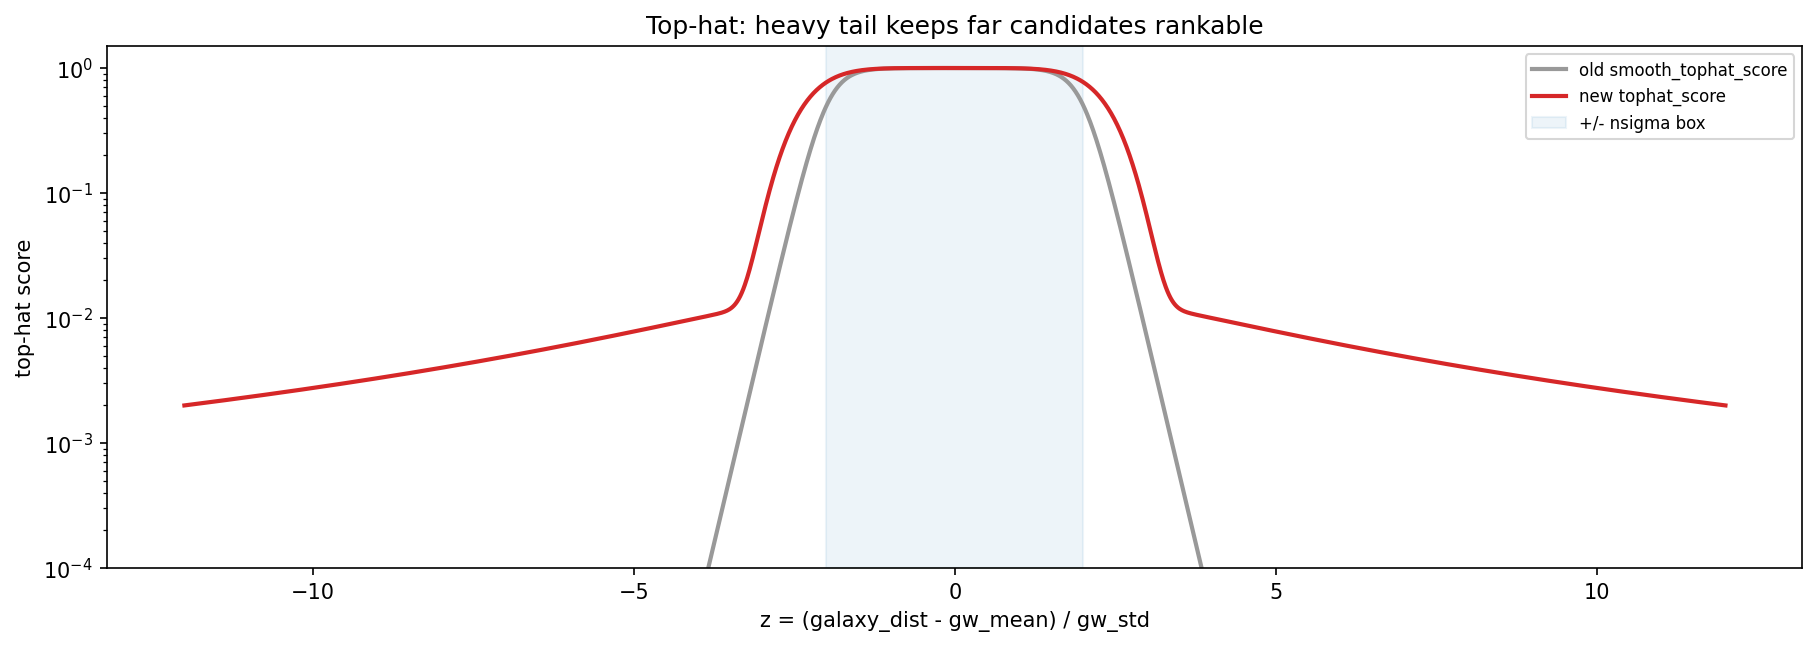
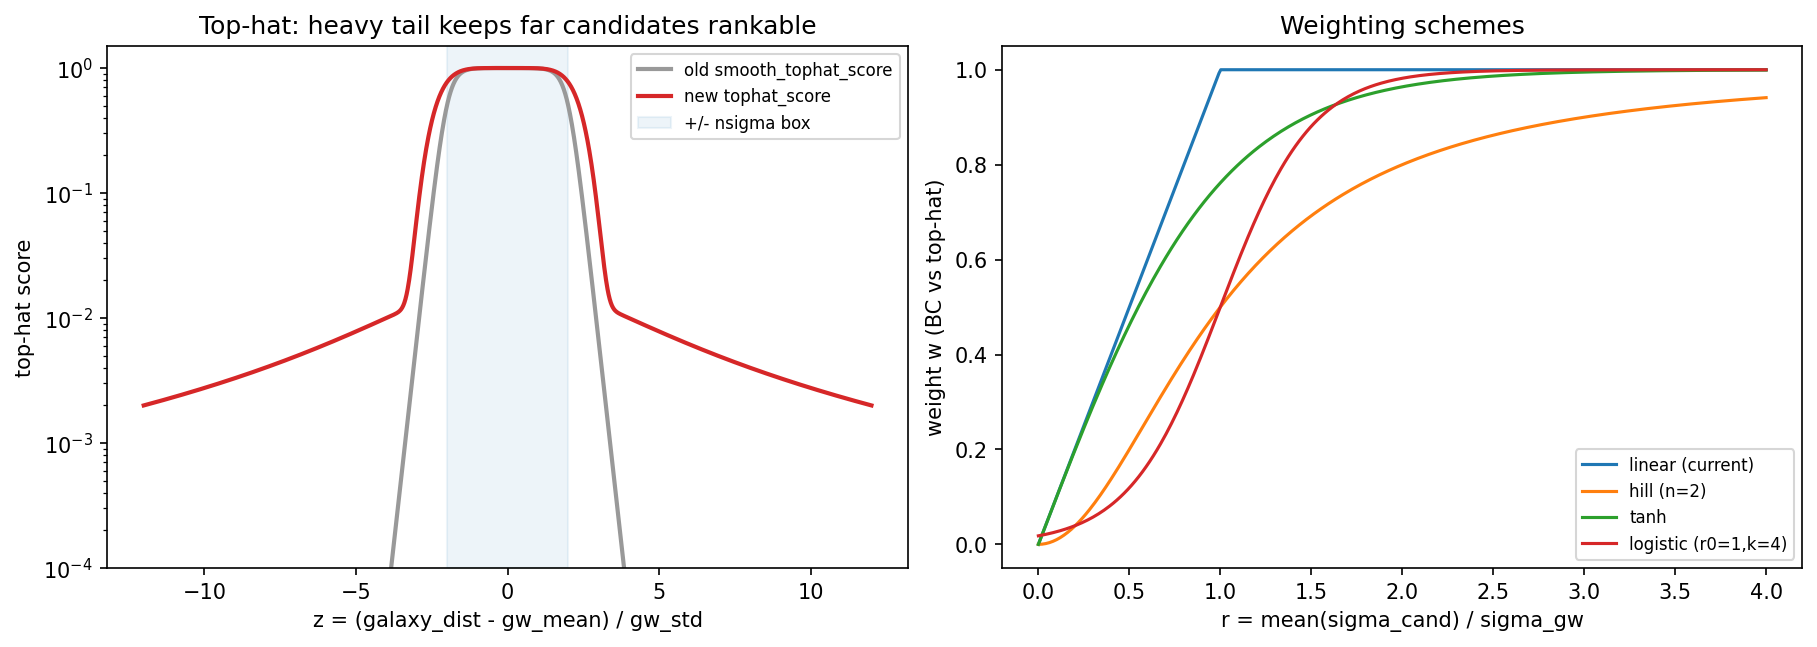
Poster Working

diff --git a/HANDOFF.md b/HANDOFF.md
@@ -1,0 +1,198 @@
+# Distance Scoring — Project Handoff
+
+> Context document for a fresh Claude session. Everything needed to pick up work on the
+> gravitational-wave (GW) host-galaxy **distance scoring** project without prior conversation.
+> Written 2026-07-17.
+
+---
+
+## 0. TL;DR
+
+We score how well a candidate host galaxy's **distance estimate** agrees with a GW event's
+**distance posterior**, to help vet optical counterpart candidates (kilonovae, sub-solar-mass
+events) for the TROVE / SAGUARO follow-up pipeline. The current best metric is
+**`hybrid_v3`** (a.k.a. "Hybrid BC/Tophat V3"): a heavy-tailed top-hat branch blended with an
+analytic Bhattacharyya-coefficient (BC) branch, weighted by a **logistic function of the
+host/GW width ratio** (`r0=1, k=4`), built on **robust median/MAD statistics**. It is
+validated on 23 synthetic PDF stress cases and 2112 real hosts from event **S251112cm**.
+
+The immediate deliverable in progress is a **research poster** — see `POSTER.md`.
+
+---
+
+## 1. Scientific motivation
+
+- GW events (BNS mergers, and sub-solar-mass / SSM candidates) are localized in 3D:
+  sky area × luminosity **distance**. The distance posterior is roughly Gaussian and
+  well-characterized.
+- Optical surveys yield hundreds–thousands of transient candidates per event. Each candidate's
+  **host galaxy distance** is one of the strongest discriminants — *if scored correctly*.
+- **Key tension (the thesis of the whole project):** host distances come in two very
+  different flavors that a single naive metric cannot serve:
+  - **spec-z** (spectroscopic redshift): near delta-functions, very sharp.
+  - **photo-z** (photometric redshift): broad, often asymmetric, sometimes nearly uninformative.
+- Right question by regime:
+  - Sharp host PDF → *"is the point estimate consistent with the GW posterior?"* (top-hat / consistency)
+  - Broad host PDF → *"how much do the two distributions overlap?"* (BC)
+- The distance score is **one term** in a larger candidate score (sky position, photometric
+  evolution, etc.) from Noah's distance-scoring work.
+
+## 2. Design requirements for a "good" distance score
+
+1. Bounded in [0, 1]; identical PDFs → 1; disjoint PDFs → 0.
+2. A spec-z galaxy at exactly the right distance must score **~1**, even though its PDF shape
+   looks nothing like the GW posterior. **This is precisely where plain BC fails.**
+3. A very broad / uninformative photo-z should score **moderately** — neither rewarded nor excluded.
+4. Score should **decline monotonically with offset** and **preserve ranking** (a 0.5σ candidate
+   must beat a 1.5σ candidate — a hard box loses this).
+5. Robust to **asymmetric/skewed** photo-z PDFs and outliers → median/MAD, not mean/std.
+6. Fast & vectorizable — must run on thousands of candidates during live follow-up.
+
+## 3. The central failure mode (the motivating result)
+
+The **Bhattacharyya coefficient**, `BC = ∫ √(p_GW · p_host) dD`, penalizes pure *width*
+mismatch even when the distance is exactly right. For a host **perfectly centered** on the GW
+mean with width ratio `r = σ_cand/σ_gw`:
+
+    BC_centered(r) = √(2r / (1 + r²))
+
+So a correct sharp spec-z galaxy at `r = 0.2` scores **0.62** — a ~38% penalty *for being
+correct*. Requirement #2 is violated. Everything downstream exists to fix this while keeping
+BC's good behavior in the broad-PDF regime.
+
+`BC_centered(r) ≥ 0.9` only holds for `r ∈ [0.51, 1.96]` — this "BC trust window" is what sets
+the logistic weighting parameters below.
+
+## 4. Iteration history (what was tried, in order)
+
+| # | Method | Idea | Verdict |
+|---|--------|------|---------|
+| 0 | **Plain BC** | overlap integral | Fails req #2 (0.62 on centered spec-z) |
+| 1 | **Information-theory** (JSD to GW × JSD-to-uniform, + Wasserstein) | separate shape-agreement from information content; weights 0.4/0.6 | Right instincts, wrong machinery: ad-hoc weights, costly entropy integrals, real-data failure — anomalous high scores (~0.8–1.0) for photo-z hosts at 2000–10000 Mpc |
+| 2 | **Consistency probability** | erfc of scaled offset; "is point estimate consistent?" | Correct 1.0 on centered spec-z, but ignores host shape → underuses informative photo-z |
+| 3 | **Hybrid** (top-hat ⊕ BC, weight = width ratio) | ask each question in its regime | The winning structure |
+| 4 | **Robust stats** (median/MAD vs mean/std), v1–v4 | tolerate skew/outliers | v2 tightens spec-z scores hugely; introduced a real-data correlation regression (see below) |
+| 5 | **Noah's latest hybrid** | production baseline | The "before" for V3 |
+| 6 | **`hybrid_v3` (mine)** | new top-hat + logistic weighting | **Current best** |
+
+### v1–v4 naming (from `README.md` / `v2_vs_v4.md`)
+- **v1** = improved consistency probability, mean + std
+- **v2** = median + MAD (smooth blend of both tails)
+- **v3** = median + std
+- **v4** = current consistency-probability rule, median + MAD (discrete single facing tail)
+- MAD variant uses **Q86/Q14** (not Q75/Q25) so it limits to σ for a Gaussian.
+- v2 vs v4 differ **only** in the non-plateau branch; **max disagreement across 23 cases ≈ 0.02**
+  (the constructed worst case `asymmetric_v4_straddle`). The simpler v4 rule is safe.
+
+## 5. `hybrid_v3` — the current method (my contribution)
+
+Two changes over Noah's hybrid:
+
+### (a) New heavy-tailed top-hat (`tophat_score`)
+The old `smooth_tophat_score` (product of two sigmoids) crashes below 1e-4 past ~4σ, so a 5σ
+and a 10σ candidate become indistinguishable → **ranking destroyed** (violates req #4). The new
+`tophat_score` is a sum of three terms in `z = (galaxy_dist − gw_mean)/gw_std`, `u = |z|`:
+
+- **tilt** `exp(alpha·u²)`, `alpha = ln(box_edge_score)/nsigma²` — gentle in-box gradient that
+  rewards *exact centering* over "anywhere in the box".
+- **core** `exp(−(u/cliff)^(2·cliff_steepness))` — flat plateau + steep cliff (super-Gaussian).
+- **tail** `1/(1 + (u/tail_scale)²)` — heavy tail so far candidates stay **rankable** (~1e-2–1e-3
+  floor) while still clearly disfavored.
+- Combined: `0.98·tilt·core + 0.02·tail`. Defaults: `nsigma=2, cliff=2.5, cliff_steepness=4,
+  box_edge_score=0.95, tail_scale=6.0`.
+
+### (b) Logistic branch weighting (`weight_logistic`)
+`w(r) = 1 / (1 + exp(−k(r − r0)))` with **r0 = 1, k = 4**, `r = σ_cand/σ_gw` via `sigma_ratio`
+(naive mean of the two tails / gw_std). Final score = `(1−w)·tophat + w·BC`.
+
+Three convergent arguments for **k = 4** (full derivation in `NOTES.md`):
+1. **BC trust window** `[0.51, 1.96]`: k=4 puts the logistic's 12–88% transition exactly across
+   it — `w(0.5)=0.12`, `w(2)=0.98`.
+2. **Continuity** with the legacy linear ramp: max slope `k/4 = 1` matches the old `w = r`.
+3. **Spec-z anchor**: `w(0) = 1/(1+e⁴) ≈ 0.018` → a delta-function keeps ≥98% top-hat weight
+   (linear weighting would leak 10–20% into the broken-at-r=0 BC branch).
+
+Weight-scheme numeric evidence: centered spec-z scores **0.924 (linear) → 0.985 (logistic)**.
+Also tested tanh and Hill; logistic chosen for the three arguments above.
+
+## 6. Real-data validation (S251112cm, 2112 hosts)
+
+- **Matches expected distribution:** scores rise/fall with the actual GW distance PDF shape,
+  not an arbitrary function of distance.
+- **Timing** (40 real records, 20 repeats each): active metrics cost tens of µs/call —
+  Hybrid BC/Tophat 47.9 µs, **V3 34.4 µs** mean. Negligible vs the ~7–10 s per-candidate
+  network/DB wait. The old numerical-integration metrics `bc_slow` (335 µs) and `bc_norm`
+  (11.8 ms, 100k-point grid) are **not** in the pipeline; `bc (analytic)` (15.7 µs) is the
+  closed-form replacement used internally.
+- **V3 vs previous hybrid:** agree (~0) almost everywhere; in the **20–200 Mpc transition zone**
+  V3 is more consistent for well-measured hosts near the true distance (**diff up to +0.6**), at
+  the cost of slightly lower scores (down to −0.16) for well-measured hosts that are close but
+  off-center — a deliberate trade (the tilt term rewards exact centering).
+- **Uncertainty–score correlation (open question):** current Spearman ρ(uncertainty, score) by
+  distance bin dips toward ~0 near the GW peak (~120 Mpc) and rises to ~0.9+ far from it. This is
+  arguably *intended* (uncertainty matters less when a host is obviously right). NOTE the
+  **v2 robust-stats regression**: v2's correlation went *negative* at 30–150 Mpc — a "fixed one
+  thing, broke another" cautionary example, since resolved.
+
+## 7. Repository layout
+
+**This repo:** `/home/sopanda25/distance_scoring/` (research/prototyping + poster)
+
+| Path | What |
+|------|------|
+| `POSTER.md` | **Primary active deliverable** — full poster plan with embedded figures, research question, outcomes |
+| `HANDOFF.md` | This file |
+| `NOTES.md` | Design rationale; full `r0=1, k=4` justification |
+| `README.md` | v1–v4 naming, MAD-approximation note, older scoring-result notes |
+| `v2_vs_v4.md` | Side-by-side v2 vs v4 score table (max Δ ≈ 0.02) |
+| `hybrid_new.ipynb` | **Latest notebook** — hybrid_v3, new top-hat, weight schemes |
+| `hybrid.ipynb`, `dev.ipynb` | Earlier prototyping notebooks |
+| `hybrid_new/` | `v1–v4.png` (23-case score grids), `weights/{linear,logistic,tanh,hill}.png`, `diagnostics/tophat_and_weighting.png` |
+| `hybrid_tests/` | `v1–v4/` per-case plots, `v2_vs_v4_straddle.png` |
+| `pres/` | Per-method per-case plots: `bc/`, `bc_norm/`, `consistency_prob/`, `cons_prob_3/`, `hybrid/` |
+| `out/` | `jsd_uniform/`, `hellinger_dist/`, `hybrid/`, `normalization/`, `params_sweep/` (nσ 0.5–3.0 + `scores.csv`) |
+| `plots/` | The synthetic test PDFs themselves |
+| `real_data/` | **S251112cm figures copied from trove** for the poster (7 PNGs) |
+
+Plot convention: **red = GW posterior, gray = host galaxy PDF**. Same ~23 synthetic cases
+(delta / wide / very-wide / offset / skewed) reused across every method for honest comparison.
+
+**Production code lives in the trove repo, NOT here:**
+`/home/sopanda25/trove/scoring/dist_scoring_helpers.py` — the authoritative implementation of
+every metric: `bc`, `consistency_probability`, `hybrid_cons_prob`, `hybrid_cons_prob_v2`,
+`hybrid`, `tophat_score`, `smooth_tophat_score`, `sigma_ratio`, `weight_logistic`,
+`hybrid_v3`, plus the analytic BC pieces (`normalization_prefactor`, `bc_integral_neg/pos`)
+and info-theory helpers (`jsd`, `information_metric`, `conditional_scoring`, `robust_stats`).
+Related: `scoring/scoring.py`, `scoring/management/commands/{time_distance_metrics,
+check_distance_scores,recompute_cached_metrics}.py`. The real-data figures were generated into
+`/home/sopanda25/trove/out/` (source markdown: `/home/sopanda25/trove/POSTER.md`, which is the
+report the poster PDF was exported from).
+
+## 8. Environment
+
+- Use conda env **`env`** (`/home/sopanda25/miniconda3/envs/env/bin/python`) — **not** base
+  (base lacks numpy). Other envs exist: `ligo_env`, `myenv` (has PyMuPDF), `trove-env`, `t-env`.
+- Metrics depend on numpy + scipy (`scipy.stats.norm`, `erfc`).
+
+## 9. Open threads / possible next steps
+
+- **Generate the missing figure:** a clean `w(r)` plot, linear vs logistic, with the BC-trust
+  window `[0.51, 1.96]` shaded and anchor points (r = 0, 0.5, 1, 1.5, 2) annotated. This is the
+  only poster figure that doesn't yet exist and it carries the k=4/r0=1 story by itself.
+- Decide whether the **near-peak dip** in the uncertainty–score correlation is a real problem or
+  expected behavior (Section 6).
+- Photo-z PDFs are modeled as **asymmetric (split-normal) Gaussians**; real p(z) can be
+  **multimodal** — median/MAD helps but doesn't capture multiple peaks. Possible future work.
+- Peculiar-velocity / redshift→distance conversion uncertainty for very nearby events.
+- Validate on a catalog with **known hosts** (past events with confirmed counterparts, or
+  injected signals).
+- From `NOTES.md`: consider `sqrt(1 − BC²)`-style true distance metric; asymmetric-tail-aware
+  weighting depending on which side of the mode the GW mean sits.
+
+## 10. Key numbers to remember
+
+- Centered spec-z under plain BC: **0.62** (→ ~1.0 with hybrid_v3).
+- BC trust window: **r ∈ [0.51, 1.96]**.
+- Logistic weights: `w(0)=0.018, w(0.5)=0.12, w(1)=0.5, w(1.5)=0.88, w(2)=0.98`.
+- v2 vs v4 max disagreement: **~0.02** across 23 cases.
+- Real data: **2112 hosts**, V3 mean **34 µs/call**, transition-zone gain **up to +0.6**.

diff --git a/POSTER.md b/POSTER.md
@@ -1,5 +1,20 @@
 # Poster Plan — Distance Scoring for GW Counterpart Candidate Vetting
 
+## Research Question
+
+**How can we quantitatively score the consistency between a candidate host galaxy's distance estimate and a gravitational-wave event's distance posterior — in a way that treats spectroscopic and photometric redshifts on equal footing, preserves the ranking of candidates, and is fast enough for real-time follow-up?**
+
+Existing overlap metrics (Bhattacharyya coefficient) penalize precisely-measured spec-z hosts for width mismatch even when their distance is exactly right, while purely point-estimate methods discard the shape information that broad photo-z PDFs do carry. A single scoring statistic must ask the right question in each regime.
+
+## Outcomes
+
+We developed **Hybrid BC/Tophat V3**, a distance-scoring statistic that blends a heavy-tailed top-hat (consistency) branch with an analytic Bhattacharyya overlap branch, weighted by a logistic function of the host-to-GW width ratio (r₀ = 1, k = 4) and built on robust median/MAD statistics. Validated on 23 synthetic stress-case PDFs and 2112 real candidate hosts from S251112cm:
+
+- Correctly scores perfectly-placed spec-z hosts at ~1.0 where the baseline BC gave 0.62.
+- Preserves candidate ranking even far outside the GW posterior via the heavy-tailed top-hat.
+- On real data, scores track the actual GW distance PDF, and V3 improves consistency for well-measured hosts in the 20–200 Mpc transition zone (score differences up to +0.6 over the previous hybrid).
+- Runs in tens of microseconds per candidate — negligible against the ~7–10 s per-candidate network/DB wait in live follow-up.
+
 ## 1. Background & Motivation
 
 Start with background about the BNS/Kilonova and the other things we are searching for
@@ -8,15 +23,15 @@ Start with background about the BNS/Kilonova and the other things we are searchi
 - Introduce the concept of TROVE/SAGUARO and why the scoring matters
 - GW events localize sources in 3D (sky area × luminosity distance). Optical surveys produce hundreds–thousands of transient candidates per event; the *distance posterior of each candidate's host galaxy* is one of the strongest discriminants we have — but only if we score the agreement between the two PDFs correctly.
 
-## 2. Scoring Pipeline Context
+## 2. Scoring Context
 
 - Add the flowchart image of all of the different aspects of scoring (from Noah's distance scoring paper) — distance score is one term among several (sky position, photometric evolution, etc.)
 - Potentially add some of the correlation analysis
 - Transition to the distance scoring and how it is currently done: the **Bhattacharyya Coefficient (BC)**, `BC = ∫ √(p_GW · p_host) dD`
 
-## 3. Design Requirements (what a "good" distance score must do)
+## 3. Design Requirements (what a "good" distance score is)
 
-Recommended as an explicit box on the poster, so each iteration can be judged against fixed criteria.
+An explicit box on the poster, so each iteration can be judged against fixed criteria.
 
 1. Bounded in [0, 1]; identical PDFs → 1; disjoint PDFs → 0.
 2. A **spec-z galaxy at exactly the right distance must score ~1**, even though its PDF shape looks nothing like the GW posterior (this is where BC fails).
@@ -28,10 +43,10 @@ Recommended as an explicit box on the poster, so each iteration can be judged ag
 ## 4. spec-z vs photo-z: why one metric can't serve both (Maybe include this later on?)
 
 - Short background box: what spec-z and photo-z are, typical uncertainties, and why the desired scores differ by regime.
-- **The asymmetry-of-information point:** the GW distance distribution is roughly Gaussian and well-characterized; host distances come either from spectroscopic redshifts (near delta-functions) or photometric redshifts (broad, often asymmetric, sometimes nearly uninformative). A single naive overlap metric cannot serve both regimes — this is the thesis of the whole poster, and it's what every iteration below is converging toward.
-- For sharp PDFs the right question is *"is the point estimate consistent with the GW posterior?"*; for broad PDFs it is *"how much do the distributions overlap?"* — the hybrid exists to ask each question in its proper regime.
+- The GW distance distribution is roughly Gaussian and well-characterized; host distances come either from spectroscopic redshifts (near delta-functions) or photometric redshifts (broad, often asymmetric, sometimes nearly uninformative). A single naive overlap metric cannot serve both regimes — this is the thesis of the whole poster, and it's what every iteration below is converging toward.
+- For sharp PDFs the right question is "is the point estimate consistent with the GW posterior?"; for broad PDFs it is "how much do the distributions overlap?" — the hybrid exists to ask each question in its proper regime.
 
-## 5. Iterations of the Distance Score — with selected figures
+## 5. Iterations of the Distance Score
 
 > Figure convention in the repo plots: **red = GW posterior, gray = host galaxy PDF**. Same 20+ synthetic test cases (delta functions, wide/very-wide, offset, skewed) reused across every method, which makes side-by-side comparison honest.
 
@@ -39,7 +54,7 @@ Recommended as an explicit box on the poster, so each iteration can be judged ag
 
 ![BC fails on a perfect spec-z](pres/bc/deltafunc_pdf.png)
 
-- `pres/bc/deltafunc_pdf.png` — a spec-z host **perfectly centered** on the GW mean scores only **0.62**. BC penalizes pure width mismatch even when the distance is exactly right: `BC_centered(r) = √(2r/(1+r²))` for width ratio r, so a correct sharp galaxy at r = 0.2 incurs a 38% penalty *for being correct*.
+- `pres/bc/deltafunc_pdf.png` — a spec-z host **perfectly centered** on the GW mean scores only **0.62**. BC penalizes pure width mismatch even when the distance is exactly right: `BC_centered(r) = √(2r/(1+r²))` for width ratio r, so a correct sharp galaxy at r = 0.2 incurs a 38% penalty for being correct.
 - Pair it directly with `pres/hybrid/deltafunc_pdf.png` (same case, hybrid score = **1.0**) as a before/after — this two-panel pair is the strongest single visual on the poster.
 
 ### 5.1 Information-theory metrics (JSD to GW posterior × JSD to uniform, + Wasserstein)
@@ -50,7 +65,7 @@ Recommended as an explicit box on the poster, so each iteration can be judged ag
   ![bc and Conditional JSD Metric, score vs distance](real_data/distance_metric_bias_bc_info_score_vs_distance.png)
 
   The earliest two approaches on real S251112cm data — plain Bhattacharyya coefficient (`bc`) and the JSD/z-score hybrid (`Conditional JSD Metric`), both with the GW distance curve overlaid. `bc` tracks the GW distance curve fairly cleanly; `Conditional JSD Metric` mostly does too, but has a cluster of anomalously high scores (~0.8–1.0) for photo-z hosts out at ~2,000–10,000 Mpc — a clear failure mode of the pure JSD-based approach that motivated moving toward the Consistent Probability family.
-- Verdict for poster: right instincts (separate *shape agreement* from *information content*), wrong machinery — and the real-data failure at large distance makes the case concretely.
+- Verdict for poster: right instincts (separate shape agreement from information content), wrong machinery — and the real-data failure at large distance makes the case concretely.
 
 ### 5.2 Consistency-probability method
 